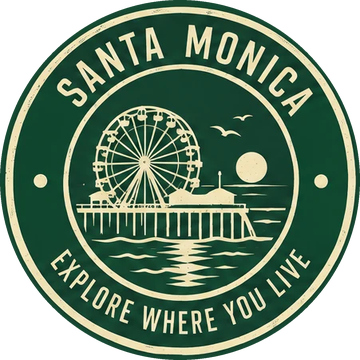
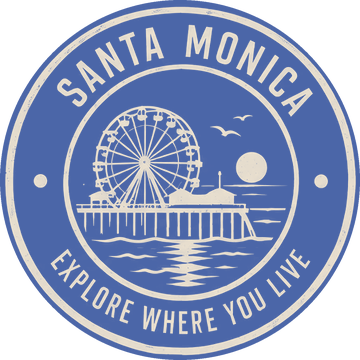
Intro stamps: give Santa Monica (paper on blue), Silver Lake (red) and West Hollywood (sun) distinct brand colors
Claude-Session: https://claude.ai/code/session_01RrmxqqygkJf5FXt1LrCovg

diff --git a/service-worker.js b/service-worker.js
@@ -3,7 +3,7 @@
 // offline data strategy, just enough for a demo/beta build to qualify
 // as an installable PWA on iOS and Android.
 
-const CACHE_NAME = "third-space-demo-v14";
+const CACHE_NAME = "third-space-demo-v15";
 const APP_SHELL = [
   "./",
   "./index.html",
